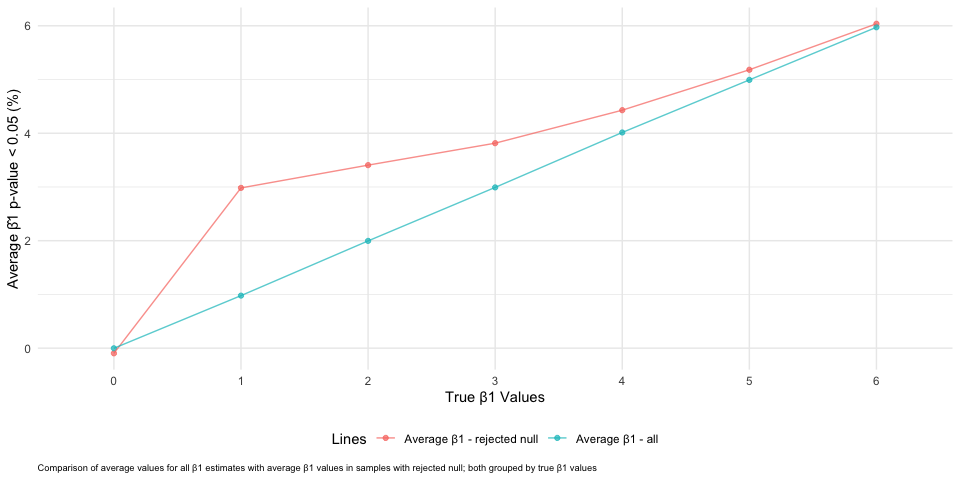
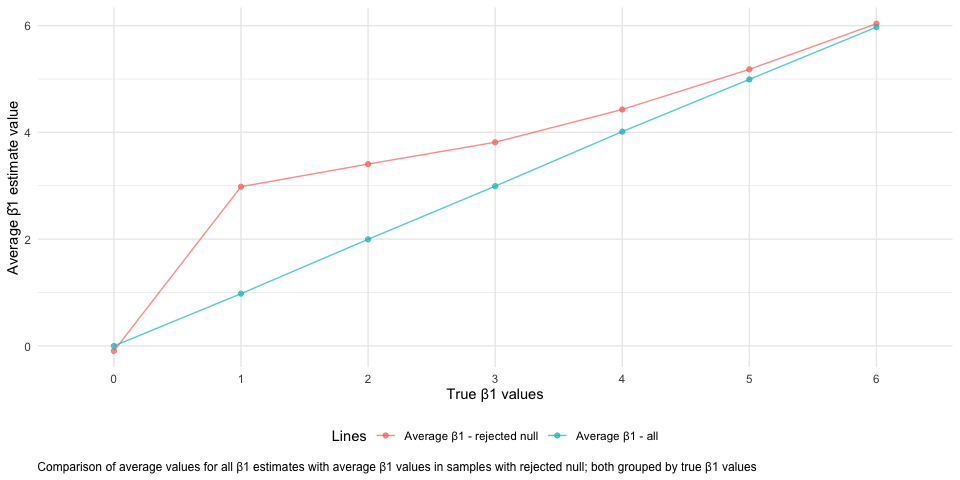
aesthetic/syntax changes, added comments answering last question left.

diff --git a/p8105_hw5_ksw2137.md b/p8105_hw5_ksw2137.md
@@ -1,7 +1,7 @@
 P8105 Data Science I - Homework 5
 ================
 Kevin S.W. UNI: ksw2137
-10/31/2019
+11/05/2019
 
 # Problem 1
 
@@ -114,7 +114,7 @@ clean_exp_df %>%
   geom_line(aes(x = week, y = observation, group = subj_id, color = group),    # line color by group
             size = 0.8, alpha = 0.6) +
   
-  # another set of geom_point/_line for control group. Alpha is differentiated to aid discernment
+  # another set of geom_point/line for control group.
   geom_point(data = clean_exp_df %>%                                           # point plot for experiment group 
                filter(group == "Experiment"),
              aes(x = week, y = observation, color = group), 
@@ -133,31 +133,30 @@ clean_exp_df %>%
 <img src="p8105_hw5_ksw2137_files/figure-gfm/spaghetti_all-1.png" style="display: block; margin: auto;" />
 
 Per above, experiment group’s observed data increases as the week goes
-by for all subjects while control stays relatively flat. This suggests
-treatment in experimental group have a positive correlation. Next step
-is testing if difference between groups is statistically significant or
-not.
+progresses while control stays relatively flat. This suggests treatment
+in experimental group have a positive correlation while control has ~0
+correlation (which is expected).
 
 # Problem 3
 
 ### Obtaining Simulation Data
 
 In this problem, we are going to be trying our hands on some simple
-linear regression simulation, which has a general formula of:
-\[y_i=\beta_0 + \beta_1\cdot x_{i1} + \epsilon_i\]
+linear regression simulation, which has a general formula of: yi = β0 +
+β1 xi1 + ϵi
 
 We will be running the simulation under several assumptions:
 
-  - \(n = 30\)
-  - \(\beta_0 = 2\)
-  - \(x_i\sim N(0,1)\)
-  - \(\sigma^2 = 50\)
+  - n = 30
+  - β0 = 2
+  - xi1 ~ N(0,1)
+  - σ^2 = 50
 
-We will then vary our “true” slope, \(\beta_1=\{0, 1, 2, 3, 4, 5, 6 \}\)
+We will then vary our “true” slope, β1={0,1,2,3,4,5,6}
 
 ``` r
 # general simple linear regression simulation function...
-slr_sim <- function(n, beta0 = 2, beta1, var) {  # function with beta0 default = 2
+slr_sim <- function(n, beta0 = 2, beta1, var) {             # function with beta0 default = 2
   
   sim_data = tibble(
     x = rnorm(n, mean = 0, sd = 1),                         # x pulled from standard normal distro
@@ -173,7 +172,7 @@ slr_sim <- function(n, beta0 = 2, beta1, var) {  # function with beta0 default =
   )
 }
 
-# code to run 10,000 simulations per beta1 of 1-6 and obtain beta1_hat and p-value
+# code to run 10,000 simulations per beta1 of 0-6 and obtain beta1_hat and p-value
 beta_value_df <- tibble(
   beta1_values = 0:6) %>%                                         # make a column of our "true" beta1 values
   mutate(                                                         # apply our beta1 to the linear regression fn
@@ -185,34 +184,32 @@ beta_value_df <- tibble(
   unnest()                                                        # unnests the beta1_hat and p-val inside each obs
 ```
 
-Our resulting dataframe contains 70000 rows which correspond to 10,000
-observations per \(\beta_1\). It has 3, which stores the true `beta1`,
-`beta1_hat`, and `p_val`. Now that we’ve obtained our datapoints for
-each \(\beta_1=\{0, 1, 2, 3, 4, 5, 6 \}\), we can plot and see the
-relationship of the estimated \(\hat\beta_1\) against the true
-\(\beta_1\).
+Our resulting dataframe contains 70000 rows which correspond to 10^{4}
+observations per true β1. It has 3 columns, which stores the true
+`beta1`, `beta1_hat`, and `p_val`.
 
 ### Relationship between Effect Size and Power
 
-First, we’ll graph the proportion of \(p-value < 0.05\), which indicates
+First, we’ll graph the proportion of p-value \< 0.05, which indicates
 the power of the test.
 
 ``` r
 beta_value_df %>% 
-  group_by(beta1_values) %>% 
-  summarize(null_reject = sum(p_val < 0.05),
-            total_obs = n()) %>% 
+  group_by(beta1_values) %>%                                  # group by true beta1 values
+  summarize(null_reject = sum(p_val < 0.05),                  # counts # of rejected nulls per true beta1 value
+            total_obs = n()) %>%                              # count total obs per true beta1 value
   mutate(
-    rate_reject = (null_reject/total_obs) * 100,
-    beta1_values = as_factor(beta1_values)
+    rate_reject = (null_reject/total_obs) * 100,              # make a new column with rate of null rejection
+    beta1_values = as_factor(beta1_values)                    # turn true beta1 value to factor
   ) %>% 
-  ggplot(aes(x = beta1_values, y = rate_reject, color = beta1_values, fill = beta1_values)) +
+  ggplot(aes(x = beta1_values, y = rate_reject,               # plot the rate of null rejection
+             color = beta1_values, fill = beta1_values)) +
   geom_bar(stat = "identity") +
-  labs(x = "True β1 Values",
+  labs(x = "True β1 Values",                                  # add labels
        y = "Percent of p-value < 0.05 (%)",
        caption = "Figure 2: Histogram of power of test (% of null rejected)"
        ) +
-  theme(legend.position = "none")
+  theme(legend.position = "none")                             # remove legend because unnecessary
 ```
 
 <img src="p8105_hw5_ksw2137_files/figure-gfm/slr_power-1.png" style="display: block; margin: auto;" />
@@ -221,40 +218,48 @@ Per above, we see that as effect size rises, power of the test
 increases. This aligns with our understanding of effect size and power
 of the test. If we think of effect size as the distance between two
 curves’ center, then it makes sense that our power increases as this
-distance
-increases.
+distance increases.
 
-### Average Estimates of \(\hat\beta_1\) vs True \(\beta_1\) in Two Situations
+### Average Estimates of β̂1 vs True β1 in Two Situations
 
-We could also plot the overall average estimates of \(\hat\beta_1\)
-compared against the true \(\beta_1\) and overlay the average estimate
-for \(\hat\beta_1\) from samples with rejected null.
+We could also plot the overall average estimates of β̂1 compared against
+the true β1 and overlay the average estimate for β̂1 from samples with
+rejected
+null.
 
 ``` r
+# make new df that contains average beta1 estimate for rejected nulls per true beta1
 rejected_avg_beta <- beta_value_df %>% 
   filter(p_val < 0.05) %>%
   group_by(beta1_values) %>% 
   summarize(mean_beta_reject = mean(beta1_hat)) %>% 
   mutate(beta1_values = as_factor(beta1_values))
 
+# new df contains total average beta1 estimate per true beta1
 total_avg_beta <- beta_value_df %>% 
   group_by(beta1_values) %>% 
   summarize(mean_beta1_hat = mean(beta1_hat)) %>% 
   mutate(beta1_values = as_factor(beta1_values))
-  
 
+
+
+# merge df above for easy plotting group of "total vs null-rejected"
 left_join(rejected_avg_beta, total_avg_beta, by = "beta1_values") %>% 
   pivot_longer(mean_beta_reject:mean_beta1_hat,
                names_to = "betahat",
                values_to = "mean_value") %>% 
   ggplot(aes(x = beta1_values, y = mean_value, color = betahat)) +
-  geom_point(aes(group = betahat), alpha = 0.7) +
-  geom_line(aes(group = betahat), alpha = 0.7) +
-  labs(x = "True β1 Values",
-       y = "Average β̂1 p-value < 0.05 (%)",
+  geom_point(aes(group = betahat), alpha = 0.7) +                   # point plot
+  geom_line(aes(group = betahat), alpha = 0.7) +                    # line plot
+  labs(x = "True β1 values",
+       y = "Average β̂1 estimate value",
        caption = "Comparison of average values for all β1 estimates with average β1 values in samples with rejected null; both grouped by true β1 values"
        ) +
-  scale_color_discrete(name = "Lines", labels = c("Average β1 - rejected null", "Average β1 - all"))
+  scale_color_discrete(name = "Lines",                              # change legend labels
+                       labels = c("Average β1 - rejected null", "Average β1 - all"))
 ```
 
 <img src="p8105_hw5_ksw2137_files/figure-gfm/slr_estimates-1.png" style="display: block; margin: auto;" />
+
+Is the sample average of β̂ 1 across tests for which the null is
+rejected approximately equal to the true value of β1? Why or why not?
